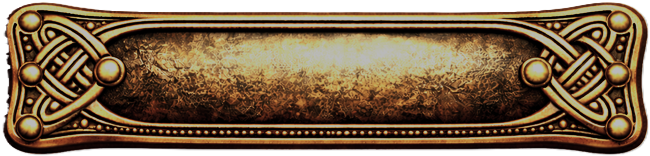
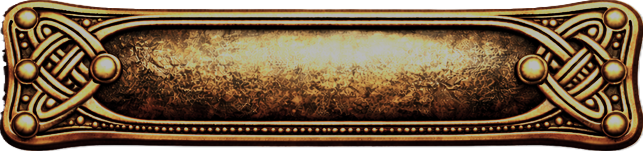
display end Play button

diff --git a/iskaar-frontend/src/game/ui/ActionView.ts b/iskaar-frontend/src/game/ui/ActionView.ts
@@ -1,0 +1,97 @@
+import Phaser from "phaser";
+import { Button } from "../objects/Button";
+import { ssrImportKey } from "vite/module-runner";
+import type { TurnViewData } from "../view/TurnViewData";
+import { TurnPhase } from "../objects/TurnPhase";
+
+export class ActionView {
+  private scene: Phaser.Scene;
+  private container!: Phaser.GameObjects.Container;
+  private debugBg!: Phaser.GameObjects.Rectangle;
+
+  private endTurnButton!: Button;
+
+  private buttonPadding: number = 10;
+  private VIEW_HEIGHT: number = 40;
+  private MIN_BUTTON_WIDTH = 100;
+  private GAP_TO_FRAME = 20;
+
+  constructor(scene: Phaser.Scene) {
+    this.scene = scene;
+  }
+
+  create() {
+    this.container = this.scene.add.container(0, 0);
+
+    this.endTurnButton = new Button(
+      this.scene,
+      0,
+      0,
+      200, // gewünschte Breite
+      "End Turn", // Text
+      "Button_3", // Texture
+      () => {
+        console.log("End Turn clicked");
+        // hier deine Logik
+      },
+    );
+    this.endTurnButton.setVisible(false);
+
+    this.debugBg = this.scene.add.rectangle(0, 0, 100, 100, 0xff0000, 0);
+
+    this.container.add(this.debugBg);
+    this.container.add(this.endTurnButton);
+    // EVENT kommt später
+  }
+
+  setPosition(x: number, y: number) {
+    this.container.setPosition(x, y);
+  }
+
+  updateActionView(bounds: Phaser.Geom.Rectangle, turn: TurnViewData) {
+    const referenceWidth = bounds.width;
+
+    // 1. Position setzen (sticky)
+    this.setPosition(bounds.centerX, bounds.bottom + this.GAP_TO_FRAME);
+
+    // 2. Größe der View definieren (🔥 NEU)
+    this.setSize(referenceWidth, this.VIEW_HEIGHT);
+
+    // 4. Button IM Container zentrieren (🔥 wichtig)
+    this.layoutButtons(referenceWidth, turn);
+  }
+
+  private layoutButtons(referenceWidth: number, turn: TurnViewData) {
+    // Button x berechen
+    const bw = Math.max(
+      this.MIN_BUTTON_WIDTH,
+      this.calculateButtonWidth(referenceWidth),
+    );
+    const buttonX = this.calculateButtonPosition(referenceWidth, 5, bw);
+    const bs = bw / this.endTurnButton.width;
+    this.endTurnButton.setScale(bs);
+    this.endTurnButton.setPosition(buttonX, 0);
+    this.endTurnButton.show(turn.phase === TurnPhase.PLAY && turn.skipable);
+  }
+
+  private setSize(width: number, height: number) {
+    this.debugBg.setDisplaySize(width, height);
+  }
+
+  private calculateButtonWidth(referenceWidth: number) {
+    return referenceWidth * 0.2 - this.buttonPadding; //1/5 vom Container
+  }
+
+  private calculateButtonPosition(
+    referenceWidth: number,
+    slot: number,
+    buttonWidth: number,
+  ): number | undefined {
+    if (slot <= 0) {
+      return undefined;
+    }
+    const step = buttonWidth + this.buttonPadding;
+
+    return -referenceWidth / 2 + step * slot - step / 2;
+  }
+}

diff --git a/iskaar-frontend/src/game/objects/Button.ts b/iskaar-frontend/src/game/objects/Button.ts
@@ -1,0 +1,73 @@
+import Phaser from "phaser";
+
+export class Button extends Phaser.GameObjects.Container {
+  private image: Phaser.GameObjects.Image;
+  private displayText: Phaser.GameObjects.Text;
+  public textureKey: string;
+
+  constructor(
+    scene: Phaser.Scene,
+    x: number,
+    y: number,
+    width: number,
+    text: string,
+    texture: string,
+    onClick?: () => void,
+  ) {
+    super(scene, x, y);
+
+    this.textureKey = texture;
+    this.image = scene.add.image(0, 0, texture);
+
+    this.displayText = scene.add
+      .text(0, 0, text, {
+        fontSize: "70px",
+        fontFamily: "Cinzel",
+        fontStyle: "bold",
+        color: "#ffffff",
+        stroke: "#000000",
+        strokeThickness: 6,
+        padding: { x: 10, y: 5 },
+      })
+      .setOrigin(0.5)
+      .setShadow(2, 2, "#000000", 4, true, true);
+
+    this.add(this.image);
+    this.add(this.displayText);
+
+    this.setSize(this.image.width, this.image.height);
+    this.setInteractive();
+
+    this.setScale(this.getScale(this.image, width));
+
+    if (onClick) {
+      this.on("pointerdown", onClick);
+    }
+
+    scene.add.existing(this);
+  }
+
+  private getScale(image: Phaser.GameObjects.Image, targetWidth: number) {
+    return targetWidth / image.width;
+  }
+
+  show(on: boolean) {
+    if (on) {
+      this.fadeIn();
+    } else {
+      this.setVisible(false);
+    }
+  }
+
+  private fadeIn() {
+    this.setAlpha(0);
+    this.setVisible(true);
+
+    this.scene.tweens.add({
+      targets: this,
+      alpha: 1,
+      duration: 300,
+      ease: "Power2",
+    });
+  }
+}

diff --git a/iskaar-frontend/src/game/ui/InPlayView.ts b/iskaar-frontend/src/game/ui/InPlayView.ts
@@ -3,7 +3,7 @@ import { Card } from "../objects/Card";
 import type { CardViewData } from "../view/CardViewData";
 
 export class InPlayView {
-  private container: Phaser.GameObjects.Container;
+  private container!: Phaser.GameObjects.Container;
   private scene: Phaser.Scene;
   private frame!: Phaser.GameObjects.Image;
   private cards: Card[] = [];
@@ -12,21 +12,22 @@ export class InPlayView {
 
   constructor(scene: Phaser.Scene) {
     this.scene = scene;
+  }
+
+  create() {
+    // 👉 Container
     this.container = this.scene.add.container(
       this.scene.scale.width / 2,
       this.scene.scale.height / 2,
     );
+
+    // 👉 Frame
     this.frame = this.scene.add.image(0, 0, "Frame");
     this.frame.setOrigin(0.5);
-
-    // wichtig: in Container!
-    this.container.add(this.frame);
-
-    // initial sichtbar (wie bei dir später sowieso)
     this.frame.setVisible(false);
-
-    // Depth wie vorher
     this.frame.setDepth(5);
+
+    this.container.add(this.frame);
   }
 
   setCards(cards: CardViewData[]) {
@@ -44,23 +45,8 @@ export class InPlayView {
 
     this.updateLayout();
   }
-
   updateFrame(active: boolean) {
-    const bounds = this.getBounds();
-
-    let x: number;
-    let y: number;
-
-    if (bounds.width === 0 || bounds.height === 0) {
-      x = this.scene.scale.width / 2;
-      y = this.scene.scale.height / 2;
-    } else {
-      x = bounds.centerX;
-      y = bounds.centerY;
-    }
-
-    this.frame.setPosition(x - this.container.x, y - this.container.y);
-
+    this.frame.setPosition(0, 0);
     this.frame.setVisible(true);
 
     const paddingX = this.scene.scale.width * 0.1;

diff --git a/iskaar-frontend/src/game/scenes/GameScene.ts b/iskaar-frontend/src/game/scenes/GameScene.ts
@@ -7,11 +7,13 @@ import type { GameViewData } from "../view/GameViewData";
 import { OpponentView } from "../ui/OpponentView";
 import { StackView } from "../ui/StatckView";
 import { MOCK_GAME_VIEW } from "../../core/mock/MockGameData";
+import { ActionView } from "../ui/ActionView";
 
 export class GameScene extends Phaser.Scene {
   private gameClient!: GameClient;
   private handView!: HandView;
   private inPlayView!: InPlayView;
+  private actionView!: ActionView;
   private opponentViews: OpponentView[] = [];
   private drawPileView!: StackView;
   private discardPileView!: StackView;
@@ -43,6 +45,10 @@ export class GameScene extends Phaser.Scene {
     this.handView = new HandView(this);
     this.discardPileView = new StackView(this, 0.6, false, true);
     this.inPlayView = new InPlayView(this);
+    this.inPlayView.create();
+
+    this.actionView = new ActionView(this);
+    this.actionView.create();
 
     // 🔥 Events
     GameEventBus.on("gameView", this.onGameView);
@@ -93,6 +99,9 @@ export class GameScene extends Phaser.Scene {
     this.inPlayView.setCards(inPlayCards);
     const isActive = me.playerId === view.activePlayerId;
     this.inPlayView.updateFrame(isActive);
+
+    const bounds = this.inPlayView.getBounds();
+    this.actionView.updateActionView(bounds, view.turn);
 
     this.updateOpponents(view);
   };
@@ -160,9 +169,5 @@ export class GameScene extends Phaser.Scene {
 
   private emitMockGameView() {
     GameEventBus.emit("gameView", MOCK_GAME_VIEW.view);
-  }
-
-  private isActivePlayer(playerId: string, view: GameViewData): boolean {
-    return playerId === view.activePlayerId;
   }
 }

diff --git a/iskaar-frontend/src/game/objects/TurnPhase.ts b/iskaar-frontend/src/game/objects/TurnPhase.ts
@@ -1,0 +1,9 @@
+export const TurnPhase = {
+  PLAY: "PLAY_CARD",
+  BANK: "BANK",
+  BUY: "BUY",
+  SHIFT_SUPPLY: "SHIFT_SUPPLY",
+  CLEANUP: "CLEANUP",
+} as const;
+
+export type TurnPhaseType = (typeof TurnPhase)[keyof typeof TurnPhase];

diff --git a/iskaar-frontend/src/core/mock/MockGameData.ts b/iskaar-frontend/src/core/mock/MockGameData.ts
@@ -8,9 +8,8 @@ export const MOCK_GAME_VIEW = {
       drawPileSize: 2,
       persistentCards: [],
       hand: [
-        { id: "1", name: "Knut" },
-        { id: "2", name: "Knut" },
-        { id: "3", name: "Knut" },
+        { id: "4", name: "Knut" },
+        { id: "5", name: "Knut" },
       ],
       inPlay: [{ id: "3", name: "Knut" }],
       discard: [

diff --git a/iskaar-frontend/src/game/scenes/BootScene.ts b/iskaar-frontend/src/game/scenes/BootScene.ts
@@ -22,6 +22,11 @@ export class BootScene extends Phaser.Scene {
     this.load.setPath("assets/ui/panels");
     this.load.image("Frame", "frame.png");
     this.load.image("OpponentBarBg", "opponent_area_back.png");
+
+    //buttons
+    this.load.setPath("assets/ui/buttons");
+    this.load.image("Button_2", "button2.png");
+    this.load.image("Button_3", "button3.png");
   }
 
   create() {

diff --git a/iskaar-frontend/src/game/ui/HandView.ts b/iskaar-frontend/src/game/ui/HandView.ts
@@ -90,9 +90,8 @@ export class HandView {
       const isHovered = card === this.hoveredCard;
 
       if (!animated) {
-        // 👉 direkt setzen (kein Flug!)
         card.setPosition(x, isHovered ? y - 60 : y);
-        card.setScale(isHovered ? 1.1 : 1);
+        card.setScale(isHovered ? 1.1 : 0.95);
         card.setRotation(isHovered ? 0 : rotation);
         return;
       }
@@ -101,7 +100,7 @@ export class HandView {
         targets: card,
         x,
         y: isHovered ? y - 60 : y,
-        scale: isHovered ? 1.1 : 1,
+        scale: isHovered ? 1.1 : 0.95,
         rotation: isHovered ? 0 : rotation,
         duration: 150,
       });

diff --git a/iskaar-frontend/src/game/ui/OpponentView.ts b/iskaar-frontend/src/game/ui/OpponentView.ts
@@ -61,6 +61,8 @@ export class OpponentView {
     this.nameText = this.scene.add
       .text(-this.BAR_WIDTH + this.LEFT_PADDING, 5, "", {
         fontSize: "20px",
+        fontFamily: "Cinzel",
+        fontStyle: "bold",
         color: "#ffffff",
         stroke: "#000000",
         strokeThickness: 3,